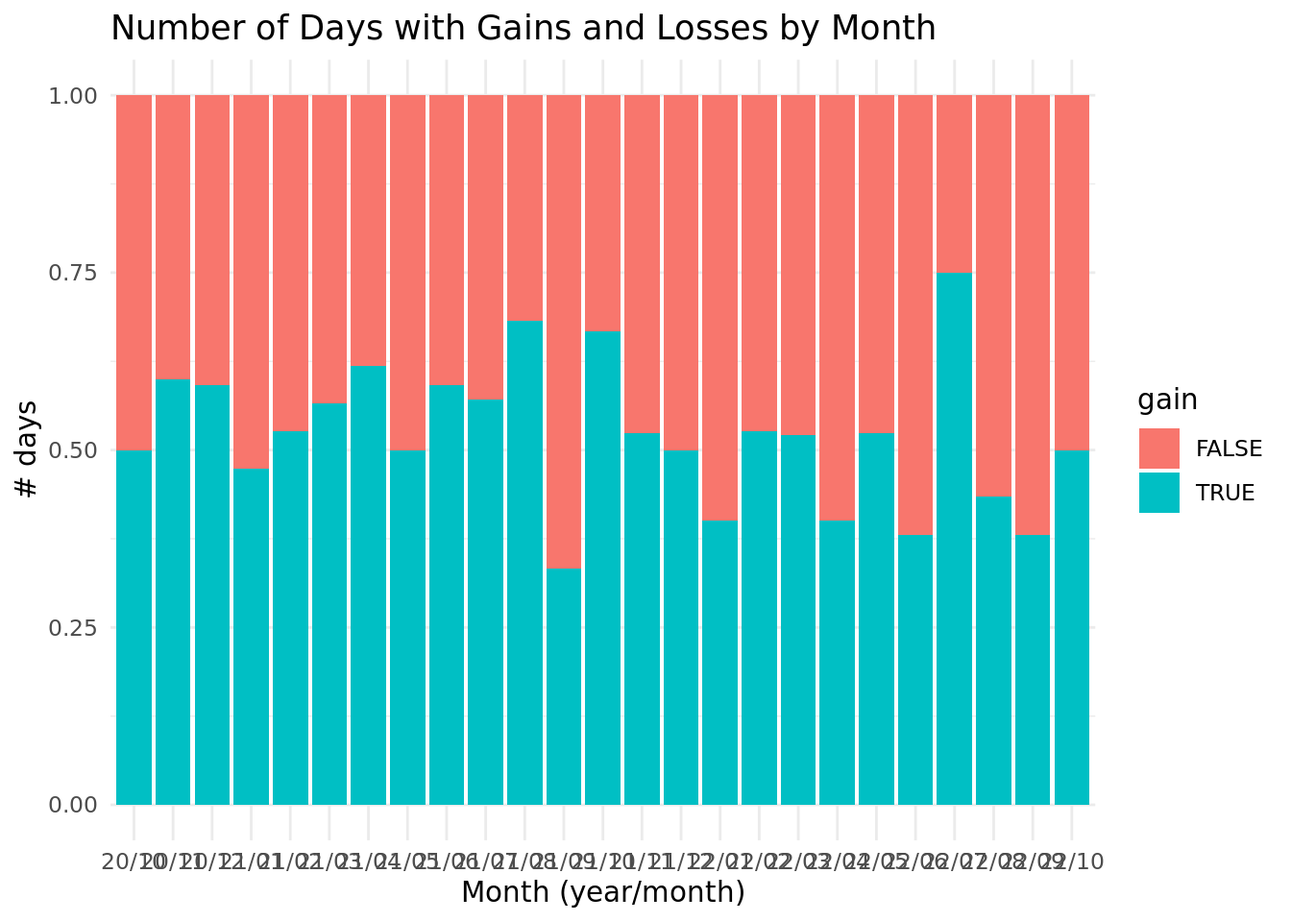
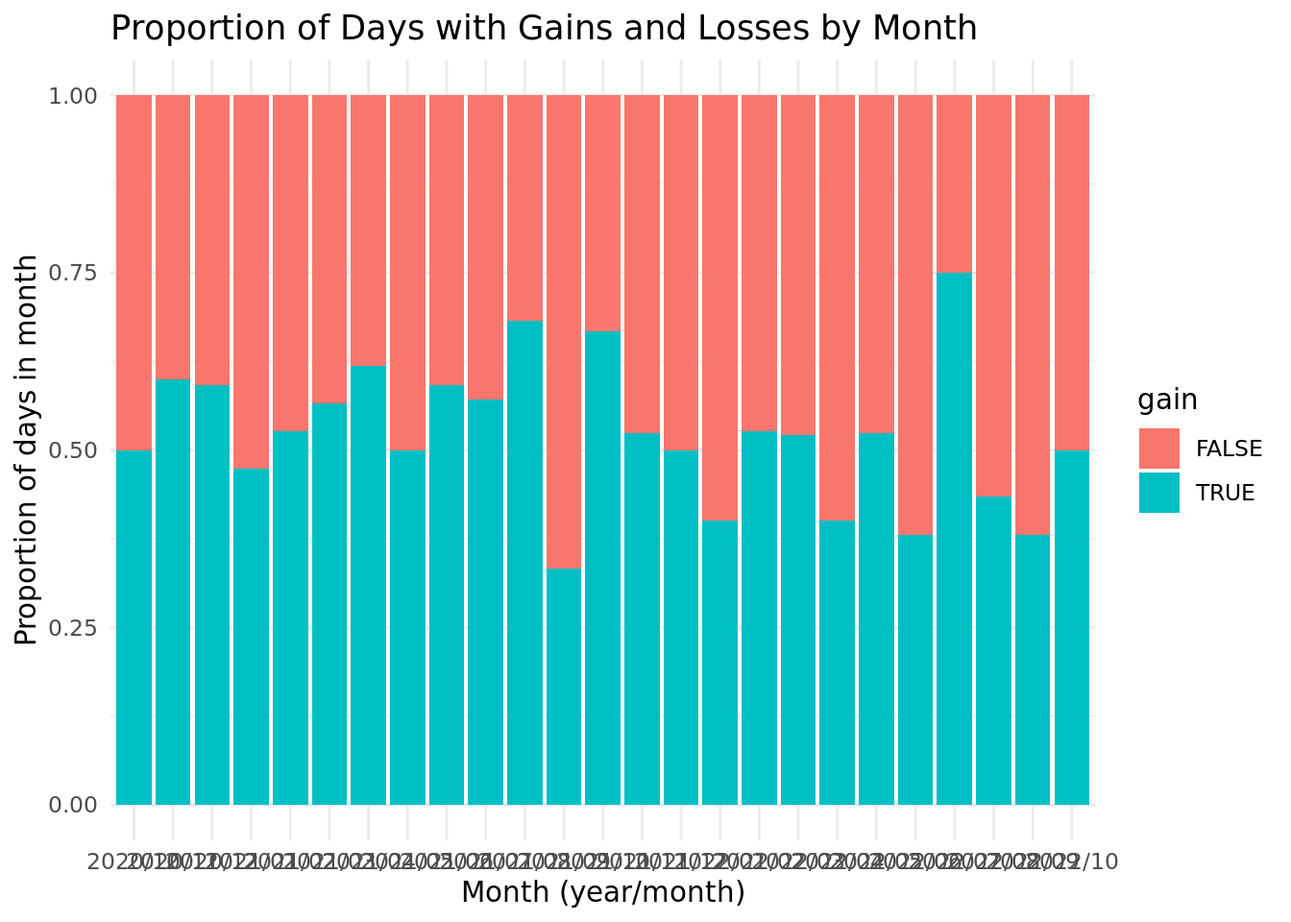
Data 2!

Changed region(s): [[0.0625, 0.9062, 0.875, 0.9688], [0.0938, 0.0, 0.75, 0.0625], [0.0, 0.2812, 0.0312, 0.7188]]

diff --git a/docs/report.html b/docs/report.html
@@ -198,7 +198,9 @@ code span.wa { color: #60a0b0; font-weight: bold; font-style: italic; } /* Warni
 <span id="cb1-2"><a href="#cb1-2" aria-hidden="true" tabindex="-1"></a></span>
 <span id="cb1-3"><a href="#cb1-3" aria-hidden="true" tabindex="-1"></a><span class="fu">library</span>(tidyverse)</span>
 <span id="cb1-4"><a href="#cb1-4" aria-hidden="true" tabindex="-1"></a><span class="fu">library</span>(tidymodels)</span>
-<span id="cb1-5"><a href="#cb1-5" aria-hidden="true" tabindex="-1"></a><span class="fu">library</span>(scales)</span></code><button title="Copy to Clipboard" class="code-copy-button"><i class="bi"></i></button></pre></div>
+<span id="cb1-5"><a href="#cb1-5" aria-hidden="true" tabindex="-1"></a><span class="fu">library</span>(scales)</span>
+<span id="cb1-6"><a href="#cb1-6" aria-hidden="true" tabindex="-1"></a><span class="fu">library</span>(lubridate)</span>
+<span id="cb1-7"><a href="#cb1-7" aria-hidden="true" tabindex="-1"></a><span class="fu">library</span>(dplyr)</span></code><button title="Copy to Clipboard" class="code-copy-button"><i class="bi"></i></button></pre></div>
 </div>
 <section id="introduction" class="level1">
 <h1><strong>Introduction</strong></h1>
@@ -470,27 +472,32 @@ $ gain                 &lt;lgl&gt; TRUE, FALSE, TRUE, TRUE, TRUE, TRUE, FALSE, F
 #   ²high_minus_low</code></pre>
 </div>
 <div class="sourceCode cell-code" id="cb18"><pre class="sourceCode r code-with-copy"><code class="sourceCode r"><span id="cb18-1"><a href="#cb18-1" aria-hidden="true" tabindex="-1"></a>sp500_curr<span class="sc">|&gt;</span></span>
-<span id="cb18-2"><a href="#cb18-2" aria-hidden="true" tabindex="-1"></a><span class="co">#  mutate(Date = paste(substr(Date, 9, 10), substr(Date, 1, 2),  sep = "/"))|&gt;</span></span>
+<span id="cb18-2"><a href="#cb18-2" aria-hidden="true" tabindex="-1"></a> <span class="fu">mutate</span>(<span class="at">Date =</span> <span class="fu">paste</span>(<span class="fu">substr</span>(Date, <span class="dv">9</span>, <span class="dv">10</span>), <span class="fu">substr</span>(Date, <span class="dv">1</span>, <span class="dv">2</span>),  <span class="at">sep =</span> <span class="st">"/"</span>))<span class="sc">|&gt;</span></span>
 <span id="cb18-3"><a href="#cb18-3" aria-hidden="true" tabindex="-1"></a>  <span class="fu">ggplot</span>(<span class="fu">aes</span>(<span class="at">x =</span> Date, <span class="at">y =</span> Price)) <span class="sc">+</span></span>
 <span id="cb18-4"><a href="#cb18-4" aria-hidden="true" tabindex="-1"></a>  <span class="fu">geom_point</span>()</span></code><button title="Copy to Clipboard" class="code-copy-button"><i class="bi"></i></button></pre></div>
 <div class="cell-output-display">
 <p><img src="report_files/figure-html/unnamed-chunk-9-1.png" class="img-fluid" width="672"></p>
 </div>
 </div>
+<p>We first graphed each day’s closing price to determine the trend in closing price over time. We utilized a scatterplot graph to visualize the data for closing price from 10/01/2020 to 10/28/2022. In the graph above, we can see that the closing prices follow a generally positive trend from October 2022 to December 2021 and then a negative trend from January 2022 to October 2022. Each month had a wide range of closing prices that we can observe from the range of the heights of closing price data points each month. Some months have a range of approximately $250 (i.e.&nbsp;August 2022) and some have a range of approximately $750 (i.e.&nbsp;February 2021).</p>
 <div class="cell">
 <div class="sourceCode cell-code" id="cb19"><pre class="sourceCode r code-with-copy"><code class="sourceCode r"><span id="cb19-1"><a href="#cb19-1" aria-hidden="true" tabindex="-1"></a>sp500_curr<span class="sc">|&gt;</span></span>
-<span id="cb19-2"><a href="#cb19-2" aria-hidden="true" tabindex="-1"></a>  <span class="fu">mutate</span>(<span class="at">Date =</span> <span class="fu">paste</span>(<span class="fu">substr</span>(Date, <span class="dv">9</span>, <span class="dv">10</span>), <span class="fu">substr</span>(Date, <span class="dv">1</span>, <span class="dv">2</span>),  <span class="at">sep =</span> <span class="st">"/"</span>))<span class="sc">|&gt;</span></span>
-<span id="cb19-3"><a href="#cb19-3" aria-hidden="true" tabindex="-1"></a>  <span class="fu">group_by</span>(Date)<span class="sc">|&gt;</span></span>
-<span id="cb19-4"><a href="#cb19-4" aria-hidden="true" tabindex="-1"></a>  <span class="fu">count</span>(gain) <span class="sc">|&gt;</span></span>
-<span id="cb19-5"><a href="#cb19-5" aria-hidden="true" tabindex="-1"></a>  <span class="fu">ggplot</span>(<span class="fu">aes</span>(<span class="at">x =</span> Date, <span class="at">y =</span> n, <span class="at">fill =</span> gain)) <span class="sc">+</span></span>
-<span id="cb19-6"><a href="#cb19-6" aria-hidden="true" tabindex="-1"></a>  <span class="fu">geom_col</span>(<span class="at">position =</span> <span class="st">"fill"</span>) <span class="sc">+</span></span>
-<span id="cb19-7"><a href="#cb19-7" aria-hidden="true" tabindex="-1"></a>  <span class="fu">labs</span>(<span class="at">title =</span> <span class="st">"Number of Days with Gains and Losses by Month"</span>, <span class="at">y =</span> <span class="st">"# days"</span>, <span class="at">x =</span> <span class="st">"Month (year/month)"</span>) <span class="sc">+</span></span>
-<span id="cb19-8"><a href="#cb19-8" aria-hidden="true" tabindex="-1"></a>  <span class="fu">theme_minimal</span>() <span class="sc">+</span></span>
-<span id="cb19-9"><a href="#cb19-9" aria-hidden="true" tabindex="-1"></a>  <span class="fu">scale_color_viridis_d</span>()</span></code><button title="Copy to Clipboard" class="code-copy-button"><i class="bi"></i></button></pre></div>
+<span id="cb19-2"><a href="#cb19-2" aria-hidden="true" tabindex="-1"></a>  <span class="fu">mutate</span>(</span>
+<span id="cb19-3"><a href="#cb19-3" aria-hidden="true" tabindex="-1"></a>    <span class="at">Date =</span> <span class="fu">paste</span>(<span class="fu">substr</span>(Date, <span class="dv">7</span>, <span class="dv">10</span>), <span class="fu">substr</span>(Date, <span class="dv">1</span>, <span class="dv">2</span>),  <span class="at">sep =</span> <span class="st">"/"</span>)</span>
+<span id="cb19-4"><a href="#cb19-4" aria-hidden="true" tabindex="-1"></a>  )<span class="sc">|&gt;</span></span>
+<span id="cb19-5"><a href="#cb19-5" aria-hidden="true" tabindex="-1"></a>  <span class="fu">group_by</span>(Date)<span class="sc">|&gt;</span></span>
+<span id="cb19-6"><a href="#cb19-6" aria-hidden="true" tabindex="-1"></a>  <span class="fu">count</span>(gain) <span class="sc">|&gt;</span></span>
+<span id="cb19-7"><a href="#cb19-7" aria-hidden="true" tabindex="-1"></a>  <span class="fu">ggplot</span>(<span class="fu">aes</span>(<span class="at">x =</span> Date, <span class="at">y =</span> n, <span class="at">fill =</span> gain)) <span class="sc">+</span></span>
+<span id="cb19-8"><a href="#cb19-8" aria-hidden="true" tabindex="-1"></a>  <span class="fu">geom_col</span>(<span class="at">position =</span> <span class="st">"fill"</span>) <span class="sc">+</span></span>
+<span id="cb19-9"><a href="#cb19-9" aria-hidden="true" tabindex="-1"></a>  <span class="fu">labs</span>(<span class="at">title =</span> <span class="st">"Proportion of Days with Gains and Losses by Month"</span>, </span>
+<span id="cb19-10"><a href="#cb19-10" aria-hidden="true" tabindex="-1"></a>       <span class="at">y =</span> <span class="st">"Proportion of days in month"</span>, <span class="at">x =</span> <span class="st">"Month (year/month)"</span>) <span class="sc">+</span></span>
+<span id="cb19-11"><a href="#cb19-11" aria-hidden="true" tabindex="-1"></a>  <span class="fu">theme_minimal</span>() <span class="sc">+</span></span>
+<span id="cb19-12"><a href="#cb19-12" aria-hidden="true" tabindex="-1"></a>  <span class="fu">scale_color_viridis_d</span>()</span></code><button title="Copy to Clipboard" class="code-copy-button"><i class="bi"></i></button></pre></div>
 <div class="cell-output-display">
 <p><img src="report_files/figure-html/gains-and-losses-per-month-1.png" class="img-fluid" width="672"></p>
 </div>
 </div>
+<p>Then we plotted the proportion of daily gains and losses by each month in the SP500. To do this, we first grouped by dates and added a count of the total days in each month recorded. Then we plotted with ggplot and geom_col(), making our x-axis the date/month, our y-axis the proportion of days that gained and lost from its open price to closing price, and filled the bars with said proportion of days that gained and lost from open to closing price. We notice that 7 of the 26 months in our dataset have losses or false gains according to our plot. This means that the other 19 months either had even or higher proportions of days whose closing price was higher than the opening price.</p>
 <div class="cell">
 <div class="sourceCode cell-code" id="cb20"><pre class="sourceCode r code-with-copy"><code class="sourceCode r"><span id="cb20-1"><a href="#cb20-1" aria-hidden="true" tabindex="-1"></a>sp500_curr</span></code><button title="Copy to Clipboard" class="code-copy-button"><i class="bi"></i></button></pre></div>
 <div class="cell-output cell-output-stdout">
@@ -510,6 +517,44 @@ $ gain                 &lt;lgl&gt; TRUE, FALSE, TRUE, TRUE, TRUE, TRUE, FALSE, F
 # … with 514 more rows, and abbreviated variable names ¹daily_diff,
 #   ²high_minus_low</code></pre>
 </div>
+<div class="sourceCode cell-code" id="cb22"><pre class="sourceCode r code-with-copy"><code class="sourceCode r"><span id="cb22-1"><a href="#cb22-1" aria-hidden="true" tabindex="-1"></a>sp500_curr<span class="sc">|&gt;</span></span>
+<span id="cb22-2"><a href="#cb22-2" aria-hidden="true" tabindex="-1"></a>  <span class="fu">mutate</span>(</span>
+<span id="cb22-3"><a href="#cb22-3" aria-hidden="true" tabindex="-1"></a>    <span class="at">new_date =</span> <span class="fu">mdy</span>(Date),</span>
+<span id="cb22-4"><a href="#cb22-4" aria-hidden="true" tabindex="-1"></a>    <span class="at">Date =</span> <span class="fu">paste</span>(<span class="fu">substr</span>(Date, <span class="dv">9</span>, <span class="dv">10</span>), <span class="fu">substr</span>(Date, <span class="dv">1</span>, <span class="dv">2</span>),  <span class="at">sep =</span> <span class="st">"/"</span>))<span class="sc">|&gt;</span></span>
+<span id="cb22-5"><a href="#cb22-5" aria-hidden="true" tabindex="-1"></a>  <span class="fu">group_by</span>(new_date)<span class="sc">|&gt;</span></span>
+<span id="cb22-6"><a href="#cb22-6" aria-hidden="true" tabindex="-1"></a>  <span class="fu">summarise</span>(<span class="at">mean_dailydiff =</span> <span class="fu">mean</span>(daily_diff), <span class="at">mean_price =</span> <span class="fu">mean</span>(Price), <span class="at">.groups =</span> <span class="st">"drop"</span>) <span class="sc">|&gt;</span></span>
+<span id="cb22-7"><a href="#cb22-7" aria-hidden="true" tabindex="-1"></a>  <span class="fu">ggplot</span>(<span class="fu">aes</span>(<span class="at">x =</span> new_date, <span class="at">y =</span> mean_dailydiff)) <span class="sc">+</span></span>
+<span id="cb22-8"><a href="#cb22-8" aria-hidden="true" tabindex="-1"></a>  <span class="fu">geom_smooth</span>(<span class="fu">aes</span>(<span class="at">y =</span> mean_dailydiff), <span class="at">se =</span> <span class="cn">FALSE</span>,  <span class="at">colour =</span> <span class="st">"red"</span>) <span class="sc">+</span></span>
+<span id="cb22-9"><a href="#cb22-9" aria-hidden="true" tabindex="-1"></a>  <span class="fu">labs</span>(</span>
+<span id="cb22-10"><a href="#cb22-10" aria-hidden="true" tabindex="-1"></a>    <span class="at">x =</span> <span class="st">"Date"</span>,</span>
+<span id="cb22-11"><a href="#cb22-11" aria-hidden="true" tabindex="-1"></a>    <span class="at">y =</span> <span class="st">"Average Daily Difference"</span>,</span>
+<span id="cb22-12"><a href="#cb22-12" aria-hidden="true" tabindex="-1"></a>    <span class="at">title =</span> <span class="st">"Average Daily Difference by Month"</span></span>
+<span id="cb22-13"><a href="#cb22-13" aria-hidden="true" tabindex="-1"></a>  )</span></code><button title="Copy to Clipboard" class="code-copy-button"><i class="bi"></i></button></pre></div>
+<div class="cell-output cell-output-stderr">
+<pre><code>`geom_smooth()` using method = 'loess' and formula 'y ~ x'</code></pre>
+</div>
+<div class="cell-output-display">
+<p><img src="report_files/figure-html/l%20label-%20last-first-day-price-difference-1.png" class="img-fluid" width="672"></p>
+</div>
+<div class="sourceCode cell-code" id="cb24"><pre class="sourceCode r code-with-copy"><code class="sourceCode r"><span id="cb24-1"><a href="#cb24-1" aria-hidden="true" tabindex="-1"></a>sp500_curr<span class="sc">|&gt;</span></span>
+<span id="cb24-2"><a href="#cb24-2" aria-hidden="true" tabindex="-1"></a>  <span class="fu">mutate</span>(</span>
+<span id="cb24-3"><a href="#cb24-3" aria-hidden="true" tabindex="-1"></a>    <span class="at">new_date =</span> <span class="fu">mdy</span>(Date),</span>
+<span id="cb24-4"><a href="#cb24-4" aria-hidden="true" tabindex="-1"></a>    <span class="at">Date =</span> <span class="fu">paste</span>(<span class="fu">substr</span>(Date, <span class="dv">9</span>, <span class="dv">10</span>), <span class="fu">substr</span>(Date, <span class="dv">1</span>, <span class="dv">2</span>),  <span class="at">sep =</span> <span class="st">"/"</span>))<span class="sc">|&gt;</span></span>
+<span id="cb24-5"><a href="#cb24-5" aria-hidden="true" tabindex="-1"></a>  <span class="fu">group_by</span>(new_date)<span class="sc">|&gt;</span></span>
+<span id="cb24-6"><a href="#cb24-6" aria-hidden="true" tabindex="-1"></a>  <span class="fu">summarise</span>(<span class="at">mean_dailydiff =</span> <span class="fu">mean</span>(daily_diff), <span class="at">mean_price =</span> <span class="fu">mean</span>(Price), <span class="at">.groups =</span> <span class="st">"drop"</span>) <span class="sc">|&gt;</span></span>
+<span id="cb24-7"><a href="#cb24-7" aria-hidden="true" tabindex="-1"></a>  <span class="fu">ggplot</span>(<span class="fu">aes</span>(<span class="at">x =</span> new_date, <span class="at">y =</span> mean_dailydiff)) <span class="sc">+</span></span>
+<span id="cb24-8"><a href="#cb24-8" aria-hidden="true" tabindex="-1"></a>  <span class="fu">geom_smooth</span>(<span class="fu">aes</span>(<span class="at">y =</span> mean_price), <span class="at">se=</span> <span class="cn">FALSE</span>, <span class="at">colour =</span> <span class="st">"blue"</span>) <span class="sc">+</span></span>
+<span id="cb24-9"><a href="#cb24-9" aria-hidden="true" tabindex="-1"></a>  <span class="fu">labs</span>(</span>
+<span id="cb24-10"><a href="#cb24-10" aria-hidden="true" tabindex="-1"></a>    <span class="at">x =</span> <span class="st">"Date"</span>,</span>
+<span id="cb24-11"><a href="#cb24-11" aria-hidden="true" tabindex="-1"></a>    <span class="at">y =</span> <span class="st">"Average Closing Price"</span>,</span>
+<span id="cb24-12"><a href="#cb24-12" aria-hidden="true" tabindex="-1"></a>    <span class="at">title =</span> <span class="st">"Average Closing Prices by Month"</span></span>
+<span id="cb24-13"><a href="#cb24-13" aria-hidden="true" tabindex="-1"></a>  )</span></code><button title="Copy to Clipboard" class="code-copy-button"><i class="bi"></i></button></pre></div>
+<div class="cell-output cell-output-stderr">
+<pre><code>`geom_smooth()` using method = 'loess' and formula 'y ~ x'</code></pre>
+</div>
+<div class="cell-output-display">
+<p><img src="report_files/figure-html/l%20label-%20last-first-day-price-difference-2.png" class="img-fluid" width="672"></p>
+</div>
 </div>
 <p>Conclusion:</p>
 <div style="page-break-after: always;"></div>
@@ -525,8 +570,8 @@ $ gain                 &lt;lgl&gt; TRUE, FALSE, TRUE, TRUE, TRUE, TRUE, FALSE, F
 <p>DATA HUB collected their data from S&amp;P Dow Jones Indices (which, in turn, is collected daily from stock exchanges), and Slickcharts their data directly from the stock exchange. Each observation represents a different company and includes the following variables:</p>
 <table class="table">
 <colgroup>
-<col style="width: 25%">
-<col style="width: 75%">
+<col style="width: 27%">
+<col style="width: 72%">
 </colgroup>
 <thead>
 <tr class="header">
@@ -570,10 +615,10 @@ $ gain                 &lt;lgl&gt; TRUE, FALSE, TRUE, TRUE, TRUE, TRUE, FALSE, F
 </tbody>
 </table>
 <div class="cell">
-<div class="sourceCode cell-code" id="cb22"><pre class="sourceCode r code-with-copy"><code class="sourceCode r"><span id="cb22-1"><a href="#cb22-1" aria-hidden="true" tabindex="-1"></a><span class="co">#|: loading-current-day-company-and-sector-data</span></span>
-<span id="cb22-2"><a href="#cb22-2" aria-hidden="true" tabindex="-1"></a></span>
-<span id="cb22-3"><a href="#cb22-3" aria-hidden="true" tabindex="-1"></a>sp500_curr_company_and_sector <span class="ot">&lt;-</span> <span class="fu">read_csv</span>(<span class="st">"data/sp500_by_company_and_sector.csv"</span>)</span>
-<span id="cb22-4"><a href="#cb22-4" aria-hidden="true" tabindex="-1"></a><span class="fu">glimpse</span>(sp500_curr_company_and_sector)</span></code><button title="Copy to Clipboard" class="code-copy-button"><i class="bi"></i></button></pre></div>
+<div class="sourceCode cell-code" id="cb26"><pre class="sourceCode r code-with-copy"><code class="sourceCode r"><span id="cb26-1"><a href="#cb26-1" aria-hidden="true" tabindex="-1"></a><span class="co">#|: loading-current-day-company-and-sector-data</span></span>
+<span id="cb26-2"><a href="#cb26-2" aria-hidden="true" tabindex="-1"></a></span>
+<span id="cb26-3"><a href="#cb26-3" aria-hidden="true" tabindex="-1"></a>sp500_curr_company_and_sector <span class="ot">&lt;-</span> <span class="fu">read_csv</span>(<span class="st">"data/sp500_by_company_and_sector.csv"</span>)</span>
+<span id="cb26-4"><a href="#cb26-4" aria-hidden="true" tabindex="-1"></a><span class="fu">glimpse</span>(sp500_curr_company_and_sector)</span></code><button title="Copy to Clipboard" class="code-copy-button"><i class="bi"></i></button></pre></div>
 <div class="cell-output cell-output-stdout">
 <pre><code>Rows: 503
 Columns: 8
@@ -591,7 +636,7 @@ $ return_category &lt;chr&gt; "negative", "negative", "negative", "negative", "n
 <li>How many stocks rose or fell?</li>
 </ul>
 <div class="cell">
-<div class="sourceCode cell-code" id="cb24"><pre class="sourceCode r code-with-copy"><code class="sourceCode r"><span id="cb24-1"><a href="#cb24-1" aria-hidden="true" tabindex="-1"></a>sp500_by_company_and_sector <span class="ot">&lt;-</span> <span class="fu">read_csv</span>(<span class="st">"data/sp500_by_company_and_sector.csv"</span>)</span></code><button title="Copy to Clipboard" class="code-copy-button"><i class="bi"></i></button></pre></div>
+<div class="sourceCode cell-code" id="cb28"><pre class="sourceCode r code-with-copy"><code class="sourceCode r"><span id="cb28-1"><a href="#cb28-1" aria-hidden="true" tabindex="-1"></a>sp500_by_company_and_sector <span class="ot">&lt;-</span> <span class="fu">read_csv</span>(<span class="st">"data/sp500_by_company_and_sector.csv"</span>)</span></code><button title="Copy to Clipboard" class="code-copy-button"><i class="bi"></i></button></pre></div>
 <div class="cell-output cell-output-stderr">
 <pre><code>Rows: 503 Columns: 8
 ── Column specification ────────────────────────────────────────────────────────
@@ -604,16 +649,16 @@ dbl (4): weight, original_price, current_price, ytd_return_num
 </div>
 </div>
 <div class="cell">
-<div class="sourceCode cell-code" id="cb26"><pre class="sourceCode r code-with-copy"><code class="sourceCode r"><span id="cb26-1"><a href="#cb26-1" aria-hidden="true" tabindex="-1"></a><span class="co">#|: overall-stocks_performance-barchart</span></span>
-<span id="cb26-2"><a href="#cb26-2" aria-hidden="true" tabindex="-1"></a>sp500_by_company_and_sector <span class="sc">|&gt;</span></span>
-<span id="cb26-3"><a href="#cb26-3" aria-hidden="true" tabindex="-1"></a>  <span class="fu">ggplot</span>(<span class="fu">aes</span>(<span class="at">x =</span> return_category)) <span class="sc">+</span></span>
-<span id="cb26-4"><a href="#cb26-4" aria-hidden="true" tabindex="-1"></a>  <span class="fu">geom_bar</span>() <span class="sc">+</span></span>
-<span id="cb26-5"><a href="#cb26-5" aria-hidden="true" tabindex="-1"></a>  <span class="fu">labs</span>(</span>
-<span id="cb26-6"><a href="#cb26-6" aria-hidden="true" tabindex="-1"></a>    <span class="at">title =</span> <span class="st">"Rising and Decreasing Stock Prices"</span>,</span>
-<span id="cb26-7"><a href="#cb26-7" aria-hidden="true" tabindex="-1"></a>    <span class="at">x =</span> <span class="st">"Change in Price (%)"</span>,</span>
-<span id="cb26-8"><a href="#cb26-8" aria-hidden="true" tabindex="-1"></a>    <span class="at">y =</span> <span class="st">"Number of Companies"</span>,</span>
-<span id="cb26-9"><a href="#cb26-9" aria-hidden="true" tabindex="-1"></a>    <span class="at">fill =</span> <span class="st">"cc"</span></span>
-<span id="cb26-10"><a href="#cb26-10" aria-hidden="true" tabindex="-1"></a>       )</span></code><button title="Copy to Clipboard" class="code-copy-button"><i class="bi"></i></button></pre></div>
+<div class="sourceCode cell-code" id="cb30"><pre class="sourceCode r code-with-copy"><code class="sourceCode r"><span id="cb30-1"><a href="#cb30-1" aria-hidden="true" tabindex="-1"></a><span class="co">#|: overall-stocks_performance-barchart</span></span>
+<span id="cb30-2"><a href="#cb30-2" aria-hidden="true" tabindex="-1"></a>sp500_by_company_and_sector <span class="sc">|&gt;</span></span>
+<span id="cb30-3"><a href="#cb30-3" aria-hidden="true" tabindex="-1"></a>  <span class="fu">ggplot</span>(<span class="fu">aes</span>(<span class="at">x =</span> return_category)) <span class="sc">+</span></span>
+<span id="cb30-4"><a href="#cb30-4" aria-hidden="true" tabindex="-1"></a>  <span class="fu">geom_bar</span>() <span class="sc">+</span></span>
+<span id="cb30-5"><a href="#cb30-5" aria-hidden="true" tabindex="-1"></a>  <span class="fu">labs</span>(</span>
+<span id="cb30-6"><a href="#cb30-6" aria-hidden="true" tabindex="-1"></a>    <span class="at">title =</span> <span class="st">"Rising and Decreasing Stock Prices"</span>,</span>
+<span id="cb30-7"><a href="#cb30-7" aria-hidden="true" tabindex="-1"></a>    <span class="at">x =</span> <span class="st">"Change in Price (%)"</span>,</span>
+<span id="cb30-8"><a href="#cb30-8" aria-hidden="true" tabindex="-1"></a>    <span class="at">y =</span> <span class="st">"Number of Companies"</span>,</span>
+<span id="cb30-9"><a href="#cb30-9" aria-hidden="true" tabindex="-1"></a>    <span class="at">fill =</span> <span class="st">"cc"</span></span>
+<span id="cb30-10"><a href="#cb30-10" aria-hidden="true" tabindex="-1"></a>       )</span></code><button title="Copy to Clipboard" class="code-copy-button"><i class="bi"></i></button></pre></div>
 <div class="cell-output-display">
 <p><img src="report_files/figure-html/unnamed-chunk-14-1.png" class="img-fluid" width="672"></p>
 </div>
@@ -622,17 +667,17 @@ dbl (4): weight, original_price, current_price, ytd_return_num
 <li>How many of stocks rose or decreased in each sector?</li>
 </ul>
 <div class="cell">
-<div class="sourceCode cell-code" id="cb27"><pre class="sourceCode r code-with-copy"><code class="sourceCode r"><span id="cb27-1"><a href="#cb27-1" aria-hidden="true" tabindex="-1"></a><span class="co">#|: stocks-by_sector_barchart</span></span>
-<span id="cb27-2"><a href="#cb27-2" aria-hidden="true" tabindex="-1"></a>sp500_by_company_and_sector <span class="sc">|&gt;</span></span>
-<span id="cb27-3"><a href="#cb27-3" aria-hidden="true" tabindex="-1"></a>  <span class="fu">ggplot</span>(<span class="fu">aes</span>(<span class="at">x =</span> return_category)) <span class="sc">+</span></span>
-<span id="cb27-4"><a href="#cb27-4" aria-hidden="true" tabindex="-1"></a>  <span class="fu">geom_bar</span>() <span class="sc">+</span></span>
-<span id="cb27-5"><a href="#cb27-5" aria-hidden="true" tabindex="-1"></a>  <span class="fu">facet_wrap</span>(<span class="sc">~</span>sector) <span class="sc">+</span></span>
-<span id="cb27-6"><a href="#cb27-6" aria-hidden="true" tabindex="-1"></a>  <span class="fu">labs</span>(</span>
-<span id="cb27-7"><a href="#cb27-7" aria-hidden="true" tabindex="-1"></a>    <span class="at">title =</span> <span class="st">"Rising and Decreasing Stock Prices"</span>,</span>
-<span id="cb27-8"><a href="#cb27-8" aria-hidden="true" tabindex="-1"></a>    <span class="at">x =</span> <span class="st">"Change in Price (%)"</span>,</span>
-<span id="cb27-9"><a href="#cb27-9" aria-hidden="true" tabindex="-1"></a>    <span class="at">y =</span> <span class="st">"Number of Companies"</span>,</span>
-<span id="cb27-10"><a href="#cb27-10" aria-hidden="true" tabindex="-1"></a>    <span class="at">fill =</span> <span class="st">"cc"</span></span>
-<span id="cb27-11"><a href="#cb27-11" aria-hidden="true" tabindex="-1"></a>       )</span></code><button title="Copy to Clipboard" class="code-copy-button"><i class="bi"></i></button></pre></div>
+<div class="sourceCode cell-code" id="cb31"><pre class="sourceCode r code-with-copy"><code class="sourceCode r"><span id="cb31-1"><a href="#cb31-1" aria-hidden="true" tabindex="-1"></a><span class="co">#|: stocks-by_sector_barchart</span></span>
+<span id="cb31-2"><a href="#cb31-2" aria-hidden="true" tabindex="-1"></a>sp500_by_company_and_sector <span class="sc">|&gt;</span></span>
+<span id="cb31-3"><a href="#cb31-3" aria-hidden="true" tabindex="-1"></a>  <span class="fu">ggplot</span>(<span class="fu">aes</span>(<span class="at">x =</span> return_category)) <span class="sc">+</span></span>
+<span id="cb31-4"><a href="#cb31-4" aria-hidden="true" tabindex="-1"></a>  <span class="fu">geom_bar</span>() <span class="sc">+</span></span>
+<span id="cb31-5"><a href="#cb31-5" aria-hidden="true" tabindex="-1"></a>  <span class="fu">facet_wrap</span>(<span class="sc">~</span>sector) <span class="sc">+</span></span>
+<span id="cb31-6"><a href="#cb31-6" aria-hidden="true" tabindex="-1"></a>  <span class="fu">labs</span>(</span>
+<span id="cb31-7"><a href="#cb31-7" aria-hidden="true" tabindex="-1"></a>    <span class="at">title =</span> <span class="st">"Rising and Decreasing Stock Prices"</span>,</span>
+<span id="cb31-8"><a href="#cb31-8" aria-hidden="true" tabindex="-1"></a>    <span class="at">x =</span> <span class="st">"Change in Price (%)"</span>,</span>
+<span id="cb31-9"><a href="#cb31-9" aria-hidden="true" tabindex="-1"></a>    <span class="at">y =</span> <span class="st">"Number of Companies"</span>,</span>
+<span id="cb31-10"><a href="#cb31-10" aria-hidden="true" tabindex="-1"></a>    <span class="at">fill =</span> <span class="st">"cc"</span></span>
+<span id="cb31-11"><a href="#cb31-11" aria-hidden="true" tabindex="-1"></a>       )</span></code><button title="Copy to Clipboard" class="code-copy-button"><i class="bi"></i></button></pre></div>
 <div class="cell-output-display">
 <p><img src="report_files/figure-html/unnamed-chunk-15-1.png" class="img-fluid" width="672"></p>
 </div>
@@ -641,21 +686,21 @@ dbl (4): weight, original_price, current_price, ytd_return_num
 <li>What is the variation in percentage returns for each sector?</li>
 </ul>
 <div class="cell">
-<div class="sourceCode cell-code" id="cb28"><pre class="sourceCode r code-with-copy"><code class="sourceCode r"><span id="cb28-1"><a href="#cb28-1" aria-hidden="true" tabindex="-1"></a><span class="co">#|: sectors-performance-barchart</span></span>
-<span id="cb28-2"><a href="#cb28-2" aria-hidden="true" tabindex="-1"></a>sp500_by_company_and_sector <span class="sc">|&gt;</span></span>
-<span id="cb28-3"><a href="#cb28-3" aria-hidden="true" tabindex="-1"></a>  <span class="co">#group_by(sector) |&gt;</span></span>
-<span id="cb28-4"><a href="#cb28-4" aria-hidden="true" tabindex="-1"></a>  <span class="co">#summarize(sector_perf = mean(ytd_return_num, na.rm = TRUE)) |&gt;</span></span>
-<span id="cb28-5"><a href="#cb28-5" aria-hidden="true" tabindex="-1"></a>  <span class="co">#mutate(sector_ret = case_when(</span></span>
-<span id="cb28-6"><a href="#cb28-6" aria-hidden="true" tabindex="-1"></a>  <span class="co">#     sector_perf &gt; 0 ~ "Increased",</span></span>
-<span id="cb28-7"><a href="#cb28-7" aria-hidden="true" tabindex="-1"></a>  <span class="co">#     sector_perf &lt;= 0 ~ "Decreased")) |&gt;</span></span>
-<span id="cb28-8"><a href="#cb28-8" aria-hidden="true" tabindex="-1"></a>  <span class="fu">ggplot</span>(<span class="fu">aes</span>(<span class="at">y =</span> sector, <span class="at">x =</span> ytd_return_num)) <span class="sc">+</span></span>
-<span id="cb28-9"><a href="#cb28-9" aria-hidden="true" tabindex="-1"></a>  <span class="fu">geom_boxplot</span>() <span class="sc">+</span></span>
-<span id="cb28-10"><a href="#cb28-10" aria-hidden="true" tabindex="-1"></a>  <span class="fu">labs</span>(</span>
-<span id="cb28-11"><a href="#cb28-11" aria-hidden="true" tabindex="-1"></a>  <span class="at">title =</span> <span class="st">"Rising and Decreasing Stock Prices by Sector"</span>,</span>
-<span id="cb28-12"><a href="#cb28-12" aria-hidden="true" tabindex="-1"></a>     <span class="at">x =</span> <span class="st">"% Returns"</span>,</span>
-<span id="cb28-13"><a href="#cb28-13" aria-hidden="true" tabindex="-1"></a>     <span class="at">y =</span> <span class="st">"Sector"</span>,</span>
-<span id="cb28-14"><a href="#cb28-14" aria-hidden="true" tabindex="-1"></a>     <span class="at">fill =</span> <span class="st">"cc"</span></span>
-<span id="cb28-15"><a href="#cb28-15" aria-hidden="true" tabindex="-1"></a>        )</span></code><button title="Copy to Clipboard" class="code-copy-button"><i class="bi"></i></button></pre></div>
+<div class="sourceCode cell-code" id="cb32"><pre class="sourceCode r code-with-copy"><code class="sourceCode r"><span id="cb32-1"><a href="#cb32-1" aria-hidden="true" tabindex="-1"></a><span class="co">#|: sectors-performance-barchart</span></span>
+<span id="cb32-2"><a href="#cb32-2" aria-hidden="true" tabindex="-1"></a>sp500_by_company_and_sector <span class="sc">|&gt;</span></span>
+<span id="cb32-3"><a href="#cb32-3" aria-hidden="true" tabindex="-1"></a>  <span class="co">#group_by(sector) |&gt;</span></span>
+<span id="cb32-4"><a href="#cb32-4" aria-hidden="true" tabindex="-1"></a>  <span class="co">#summarize(sector_perf = mean(ytd_return_num, na.rm = TRUE)) |&gt;</span></span>
+<span id="cb32-5"><a href="#cb32-5" aria-hidden="true" tabindex="-1"></a>  <span class="co">#mutate(sector_ret = case_when(</span></span>
+<span id="cb32-6"><a href="#cb32-6" aria-hidden="true" tabindex="-1"></a>  <span class="co">#     sector_perf &gt; 0 ~ "Increased",</span></span>
+<span id="cb32-7"><a href="#cb32-7" aria-hidden="true" tabindex="-1"></a>  <span class="co">#     sector_perf &lt;= 0 ~ "Decreased")) |&gt;</span></span>
+<span id="cb32-8"><a href="#cb32-8" aria-hidden="true" tabindex="-1"></a>  <span class="fu">ggplot</span>(<span class="fu">aes</span>(<span class="at">y =</span> sector, <span class="at">x =</span> ytd_return_num)) <span class="sc">+</span></span>
+<span id="cb32-9"><a href="#cb32-9" aria-hidden="true" tabindex="-1"></a>  <span class="fu">geom_boxplot</span>() <span class="sc">+</span></span>
+<span id="cb32-10"><a href="#cb32-10" aria-hidden="true" tabindex="-1"></a>  <span class="fu">labs</span>(</span>
+<span id="cb32-11"><a href="#cb32-11" aria-hidden="true" tabindex="-1"></a>  <span class="at">title =</span> <span class="st">"Rising and Decreasing Stock Prices by Sector"</span>,</span>
+<span id="cb32-12"><a href="#cb32-12" aria-hidden="true" tabindex="-1"></a>     <span class="at">x =</span> <span class="st">"% Returns"</span>,</span>
+<span id="cb32-13"><a href="#cb32-13" aria-hidden="true" tabindex="-1"></a>     <span class="at">y =</span> <span class="st">"Sector"</span>,</span>
+<span id="cb32-14"><a href="#cb32-14" aria-hidden="true" tabindex="-1"></a>     <span class="at">fill =</span> <span class="st">"cc"</span></span>
+<span id="cb32-15"><a href="#cb32-15" aria-hidden="true" tabindex="-1"></a>        )</span></code><button title="Copy to Clipboard" class="code-copy-button"><i class="bi"></i></button></pre></div>
 <div class="cell-output-display">
 <p><img src="report_files/figure-html/unnamed-chunk-16-1.png" class="img-fluid" width="672"></p>
 </div>
@@ -664,10 +709,10 @@ dbl (4): weight, original_price, current_price, ytd_return_num
 <li>What are the top performing sectors?</li>
 </ul>
 <div class="cell">
-<div class="sourceCode cell-code" id="cb29"><pre class="sourceCode r code-with-copy"><code class="sourceCode r"><span id="cb29-1"><a href="#cb29-1" aria-hidden="true" tabindex="-1"></a>sp500_by_company_and_sector <span class="sc">|&gt;</span></span>
-<span id="cb29-2"><a href="#cb29-2" aria-hidden="true" tabindex="-1"></a>  <span class="fu">group_by</span>(sector) <span class="sc">|&gt;</span></span>
-<span id="cb29-3"><a href="#cb29-3" aria-hidden="true" tabindex="-1"></a>  <span class="fu">summarize</span>(<span class="at">sector_perf =</span> <span class="fu">mean</span>(ytd_return_num, <span class="at">na.rm =</span> <span class="cn">TRUE</span>)) <span class="sc">|&gt;</span></span>
-<span id="cb29-4"><a href="#cb29-4" aria-hidden="true" tabindex="-1"></a>  <span class="fu">arrange</span>(<span class="fu">desc</span>(sector_perf))</span></code><button title="Copy to Clipboard" class="code-copy-button"><i class="bi"></i></button></pre></div>
+<div class="sourceCode cell-code" id="cb33"><pre class="sourceCode r code-with-copy"><code class="sourceCode r"><span id="cb33-1"><a href="#cb33-1" aria-hidden="true" tabindex="-1"></a>sp500_by_company_and_sector <span class="sc">|&gt;</span></span>
+<span id="cb33-2"><a href="#cb33-2" aria-hidden="true" tabindex="-1"></a>  <span class="fu">group_by</span>(sector) <span class="sc">|&gt;</span></span>
+<span id="cb33-3"><a href="#cb33-3" aria-hidden="true" tabindex="-1"></a>  <span class="fu">summarize</span>(<span class="at">sector_perf =</span> <span class="fu">mean</span>(ytd_return_num, <span class="at">na.rm =</span> <span class="cn">TRUE</span>)) <span class="sc">|&gt;</span></span>
+<span id="cb33-4"><a href="#cb33-4" aria-hidden="true" tabindex="-1"></a>  <span class="fu">arrange</span>(<span class="fu">desc</span>(sector_perf))</span></code><button title="Copy to Clipboard" class="code-copy-button"><i class="bi"></i></button></pre></div>
 <div class="cell-output cell-output-stdout">
 <pre><code># A tibble: 11 × 2
    sector                 sector_perf
@@ -689,11 +734,11 @@ dbl (4): weight, original_price, current_price, ytd_return_num
 <li>What are the top 10 companies with the best returns and what sector are they in?</li>
 </ul>
 <div class="cell">
-<div class="sourceCode cell-code" id="cb31"><pre class="sourceCode r code-with-copy"><code class="sourceCode r"><span id="cb31-1"><a href="#cb31-1" aria-hidden="true" tabindex="-1"></a><span class="co">#|: 10_best_returns</span></span>
-<span id="cb31-2"><a href="#cb31-2" aria-hidden="true" tabindex="-1"></a>sp500_by_company_and_sector <span class="sc">|&gt;</span></span>
-<span id="cb31-3"><a href="#cb31-3" aria-hidden="true" tabindex="-1"></a>  <span class="fu">arrange</span>(<span class="fu">desc</span>(ytd_return_num)) <span class="sc">|&gt;</span></span>
-<span id="cb31-4"><a href="#cb31-4" aria-hidden="true" tabindex="-1"></a>  <span class="fu">slice_head</span>(<span class="at">n =</span> <span class="dv">10</span>) <span class="sc">|&gt;</span></span>
-<span id="cb31-5"><a href="#cb31-5" aria-hidden="true" tabindex="-1"></a>  <span class="fu">select</span>(name, symbol, ytd_return_num, sector)</span></code><button title="Copy to Clipboard" class="code-copy-button"><i class="bi"></i></button></pre></div>
+<div class="sourceCode cell-code" id="cb35"><pre class="sourceCode r code-with-copy"><code class="sourceCode r"><span id="cb35-1"><a href="#cb35-1" aria-hidden="true" tabindex="-1"></a><span class="co">#|: 10_best_returns</span></span>
+<span id="cb35-2"><a href="#cb35-2" aria-hidden="true" tabindex="-1"></a>sp500_by_company_and_sector <span class="sc">|&gt;</span></span>
+<span id="cb35-3"><a href="#cb35-3" aria-hidden="true" tabindex="-1"></a>  <span class="fu">arrange</span>(<span class="fu">desc</span>(ytd_return_num)) <span class="sc">|&gt;</span></span>
+<span id="cb35-4"><a href="#cb35-4" aria-hidden="true" tabindex="-1"></a>  <span class="fu">slice_head</span>(<span class="at">n =</span> <span class="dv">10</span>) <span class="sc">|&gt;</span></span>
+<span id="cb35-5"><a href="#cb35-5" aria-hidden="true" tabindex="-1"></a>  <span class="fu">select</span>(name, symbol, ytd_return_num, sector)</span></code><button title="Copy to Clipboard" class="code-copy-button"><i class="bi"></i></button></pre></div>
 <div class="cell-output cell-output-stdout">
 <pre><code># A tibble: 10 × 4
    name                 symbol ytd_return_num sector   
@@ -714,11 +759,11 @@ dbl (4): weight, original_price, current_price, ytd_return_num
 <li>What are the top 10 companies with the worst returns and what sector are they in?</li>
 </ul>
 <div class="cell">
-<div class="sourceCode cell-code" id="cb33"><pre class="sourceCode r code-with-copy"><code class="sourceCode r"><span id="cb33-1"><a href="#cb33-1" aria-hidden="true" tabindex="-1"></a><span class="co">#|: 10_worst_returns</span></span>
-<span id="cb33-2"><a href="#cb33-2" aria-hidden="true" tabindex="-1"></a>sp500_by_company_and_sector <span class="sc">|&gt;</span></span>
-<span id="cb33-3"><a href="#cb33-3" aria-hidden="true" tabindex="-1"></a>  <span class="fu">arrange</span>(ytd_return_num) <span class="sc">|&gt;</span></span>
-<span id="cb33-4"><a href="#cb33-4" aria-hidden="true" tabindex="-1"></a>  <span class="fu">slice_head</span>(<span class="at">n =</span> <span class="dv">10</span>) <span class="sc">|&gt;</span></span>
-<span id="cb33-5"><a href="#cb33-5" aria-hidden="true" tabindex="-1"></a>  <span class="fu">select</span>(name, symbol, ytd_return_num, sector)</span></code><button title="Copy to Clipboard" class="code-copy-button"><i class="bi"></i></button></pre></div>
+<div class="sourceCode cell-code" id="cb37"><pre class="sourceCode r code-with-copy"><code class="sourceCode r"><span id="cb37-1"><a href="#cb37-1" aria-hidden="true" tabindex="-1"></a><span class="co">#|: 10_worst_returns</span></span>
+<span id="cb37-2"><a href="#cb37-2" aria-hidden="true" tabindex="-1"></a>sp500_by_company_and_sector <span class="sc">|&gt;</span></span>
+<span id="cb37-3"><a href="#cb37-3" aria-hidden="true" tabindex="-1"></a>  <span class="fu">arrange</span>(ytd_return_num) <span class="sc">|&gt;</span></span>
+<span id="cb37-4"><a href="#cb37-4" aria-hidden="true" tabindex="-1"></a>  <span class="fu">slice_head</span>(<span class="at">n =</span> <span class="dv">10</span>) <span class="sc">|&gt;</span></span>
+<span id="cb37-5"><a href="#cb37-5" aria-hidden="true" tabindex="-1"></a>  <span class="fu">select</span>(name, symbol, ytd_return_num, sector)</span></code><button title="Copy to Clipboard" class="code-copy-button"><i class="bi"></i></button></pre></div>
 <div class="cell-output cell-output-stdout">
 <pre><code># A tibble: 10 × 4
    name                   symbol ytd_return_num sector                
